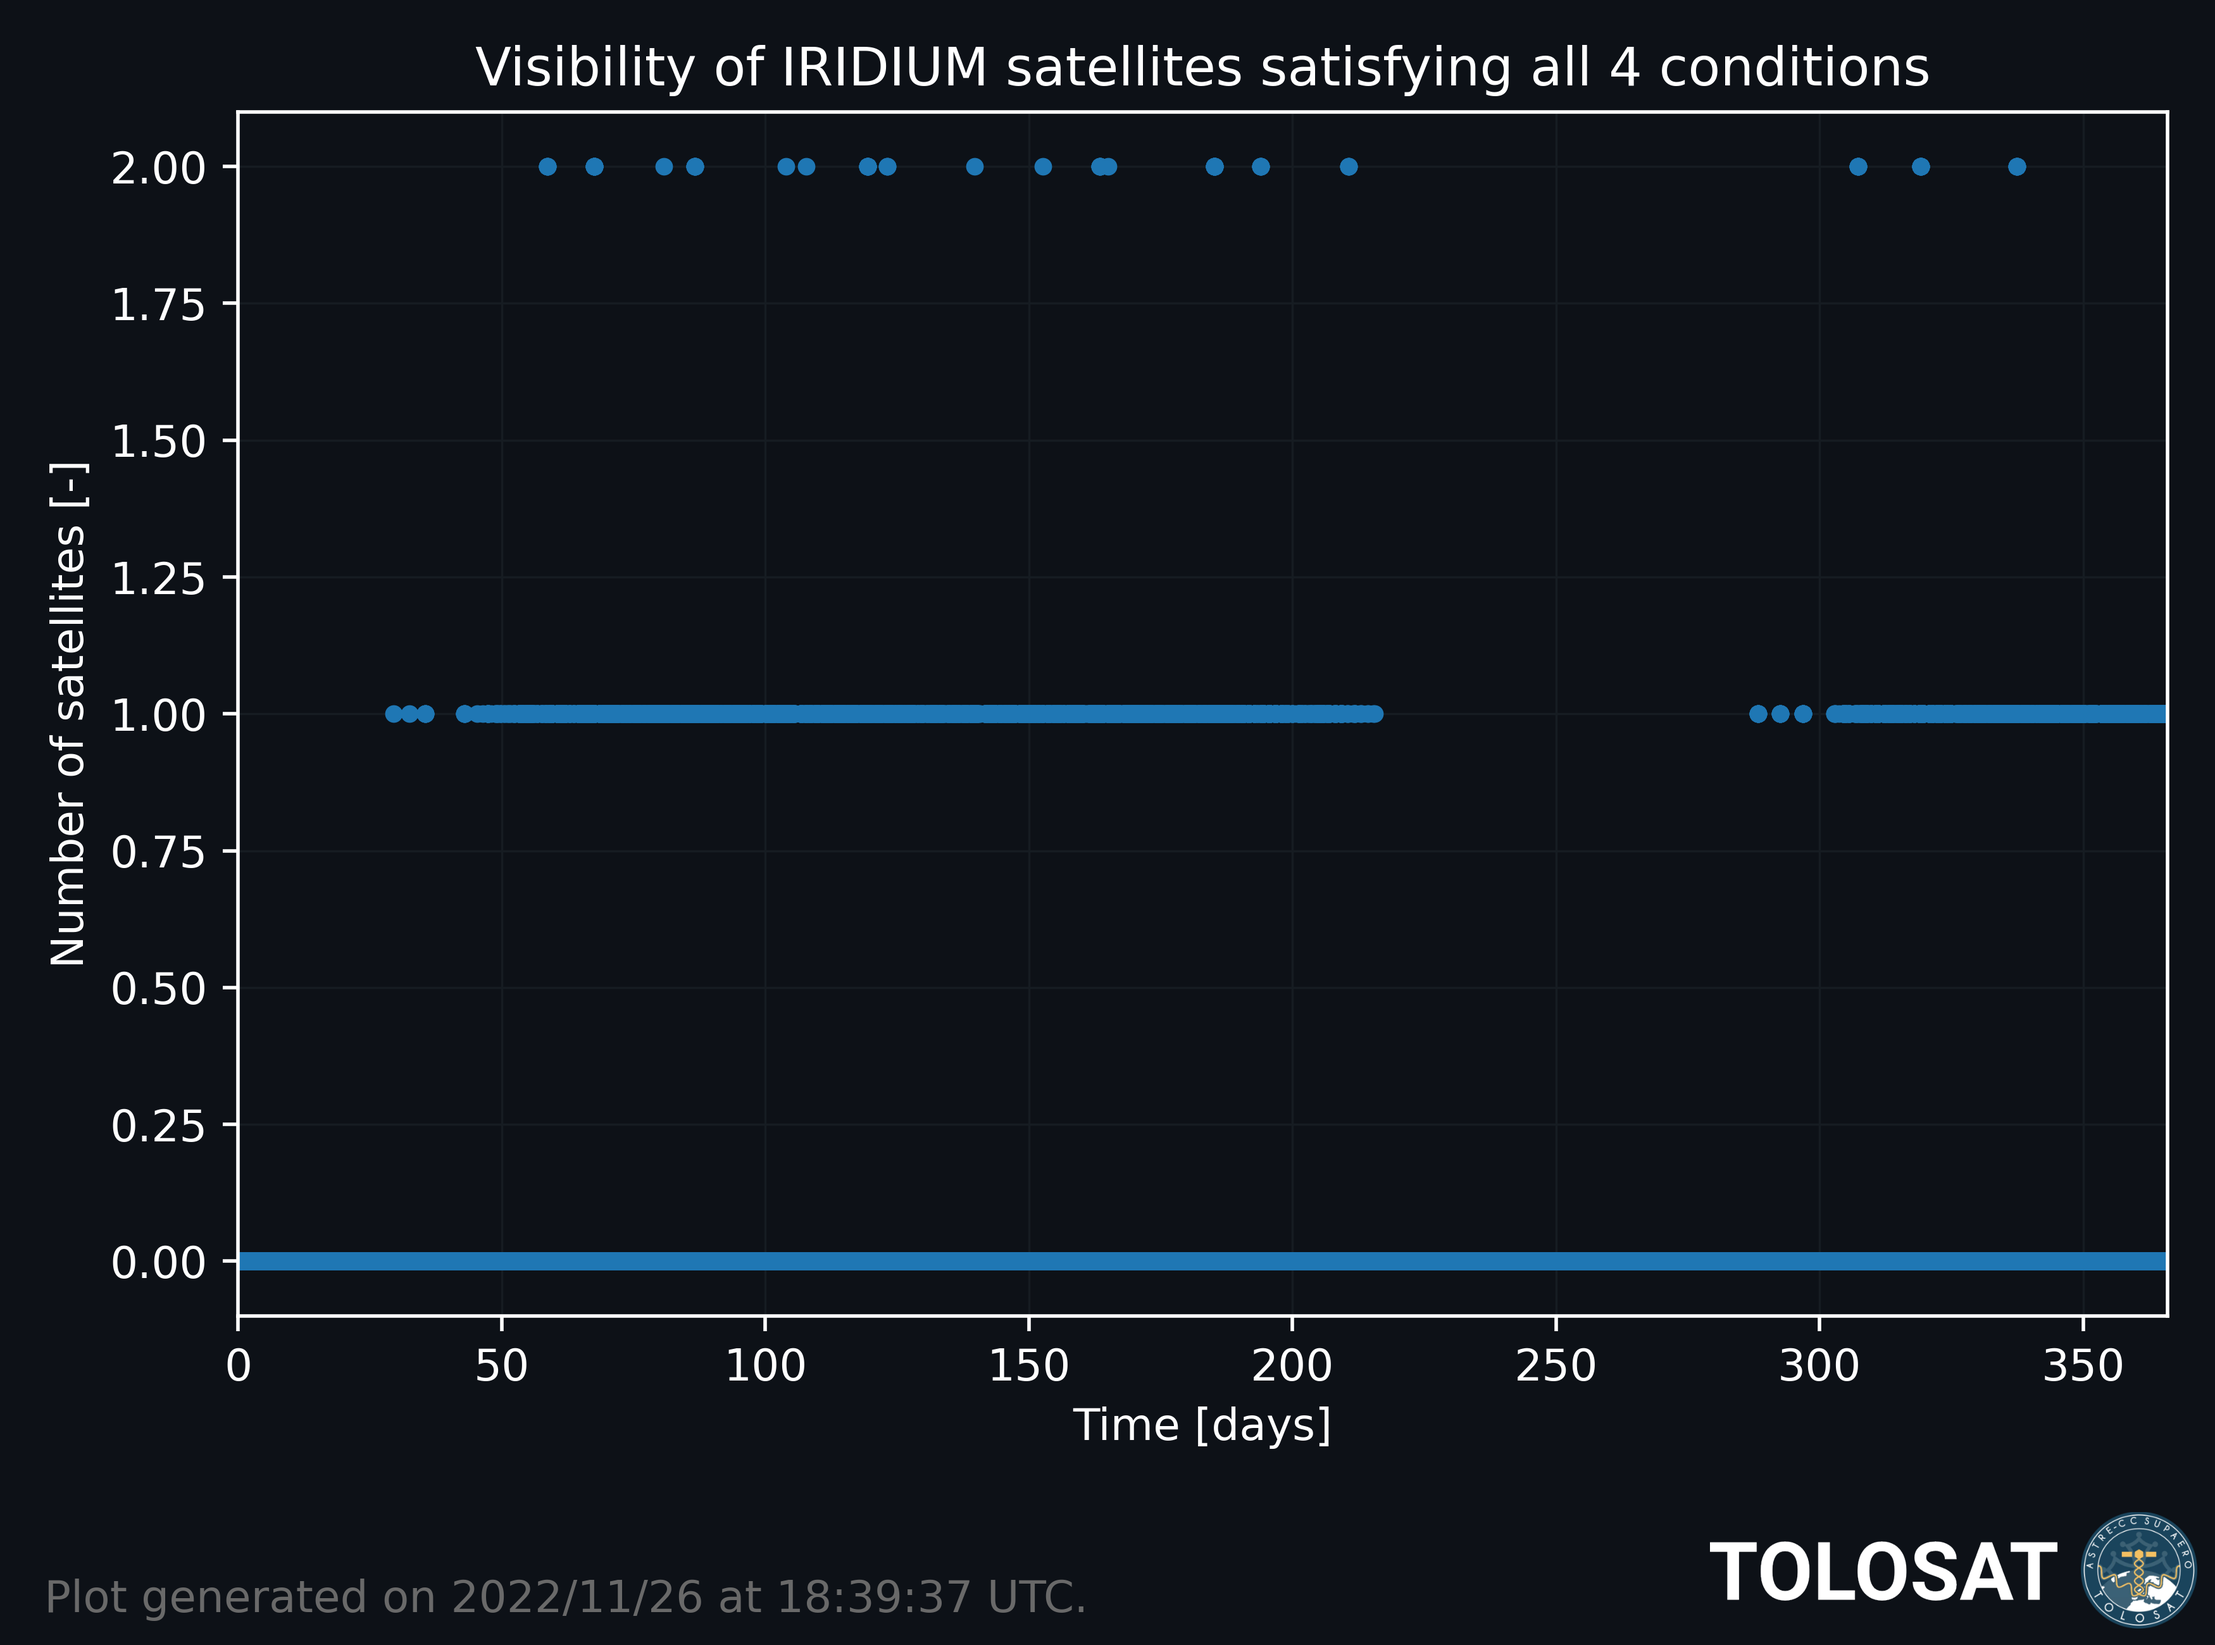
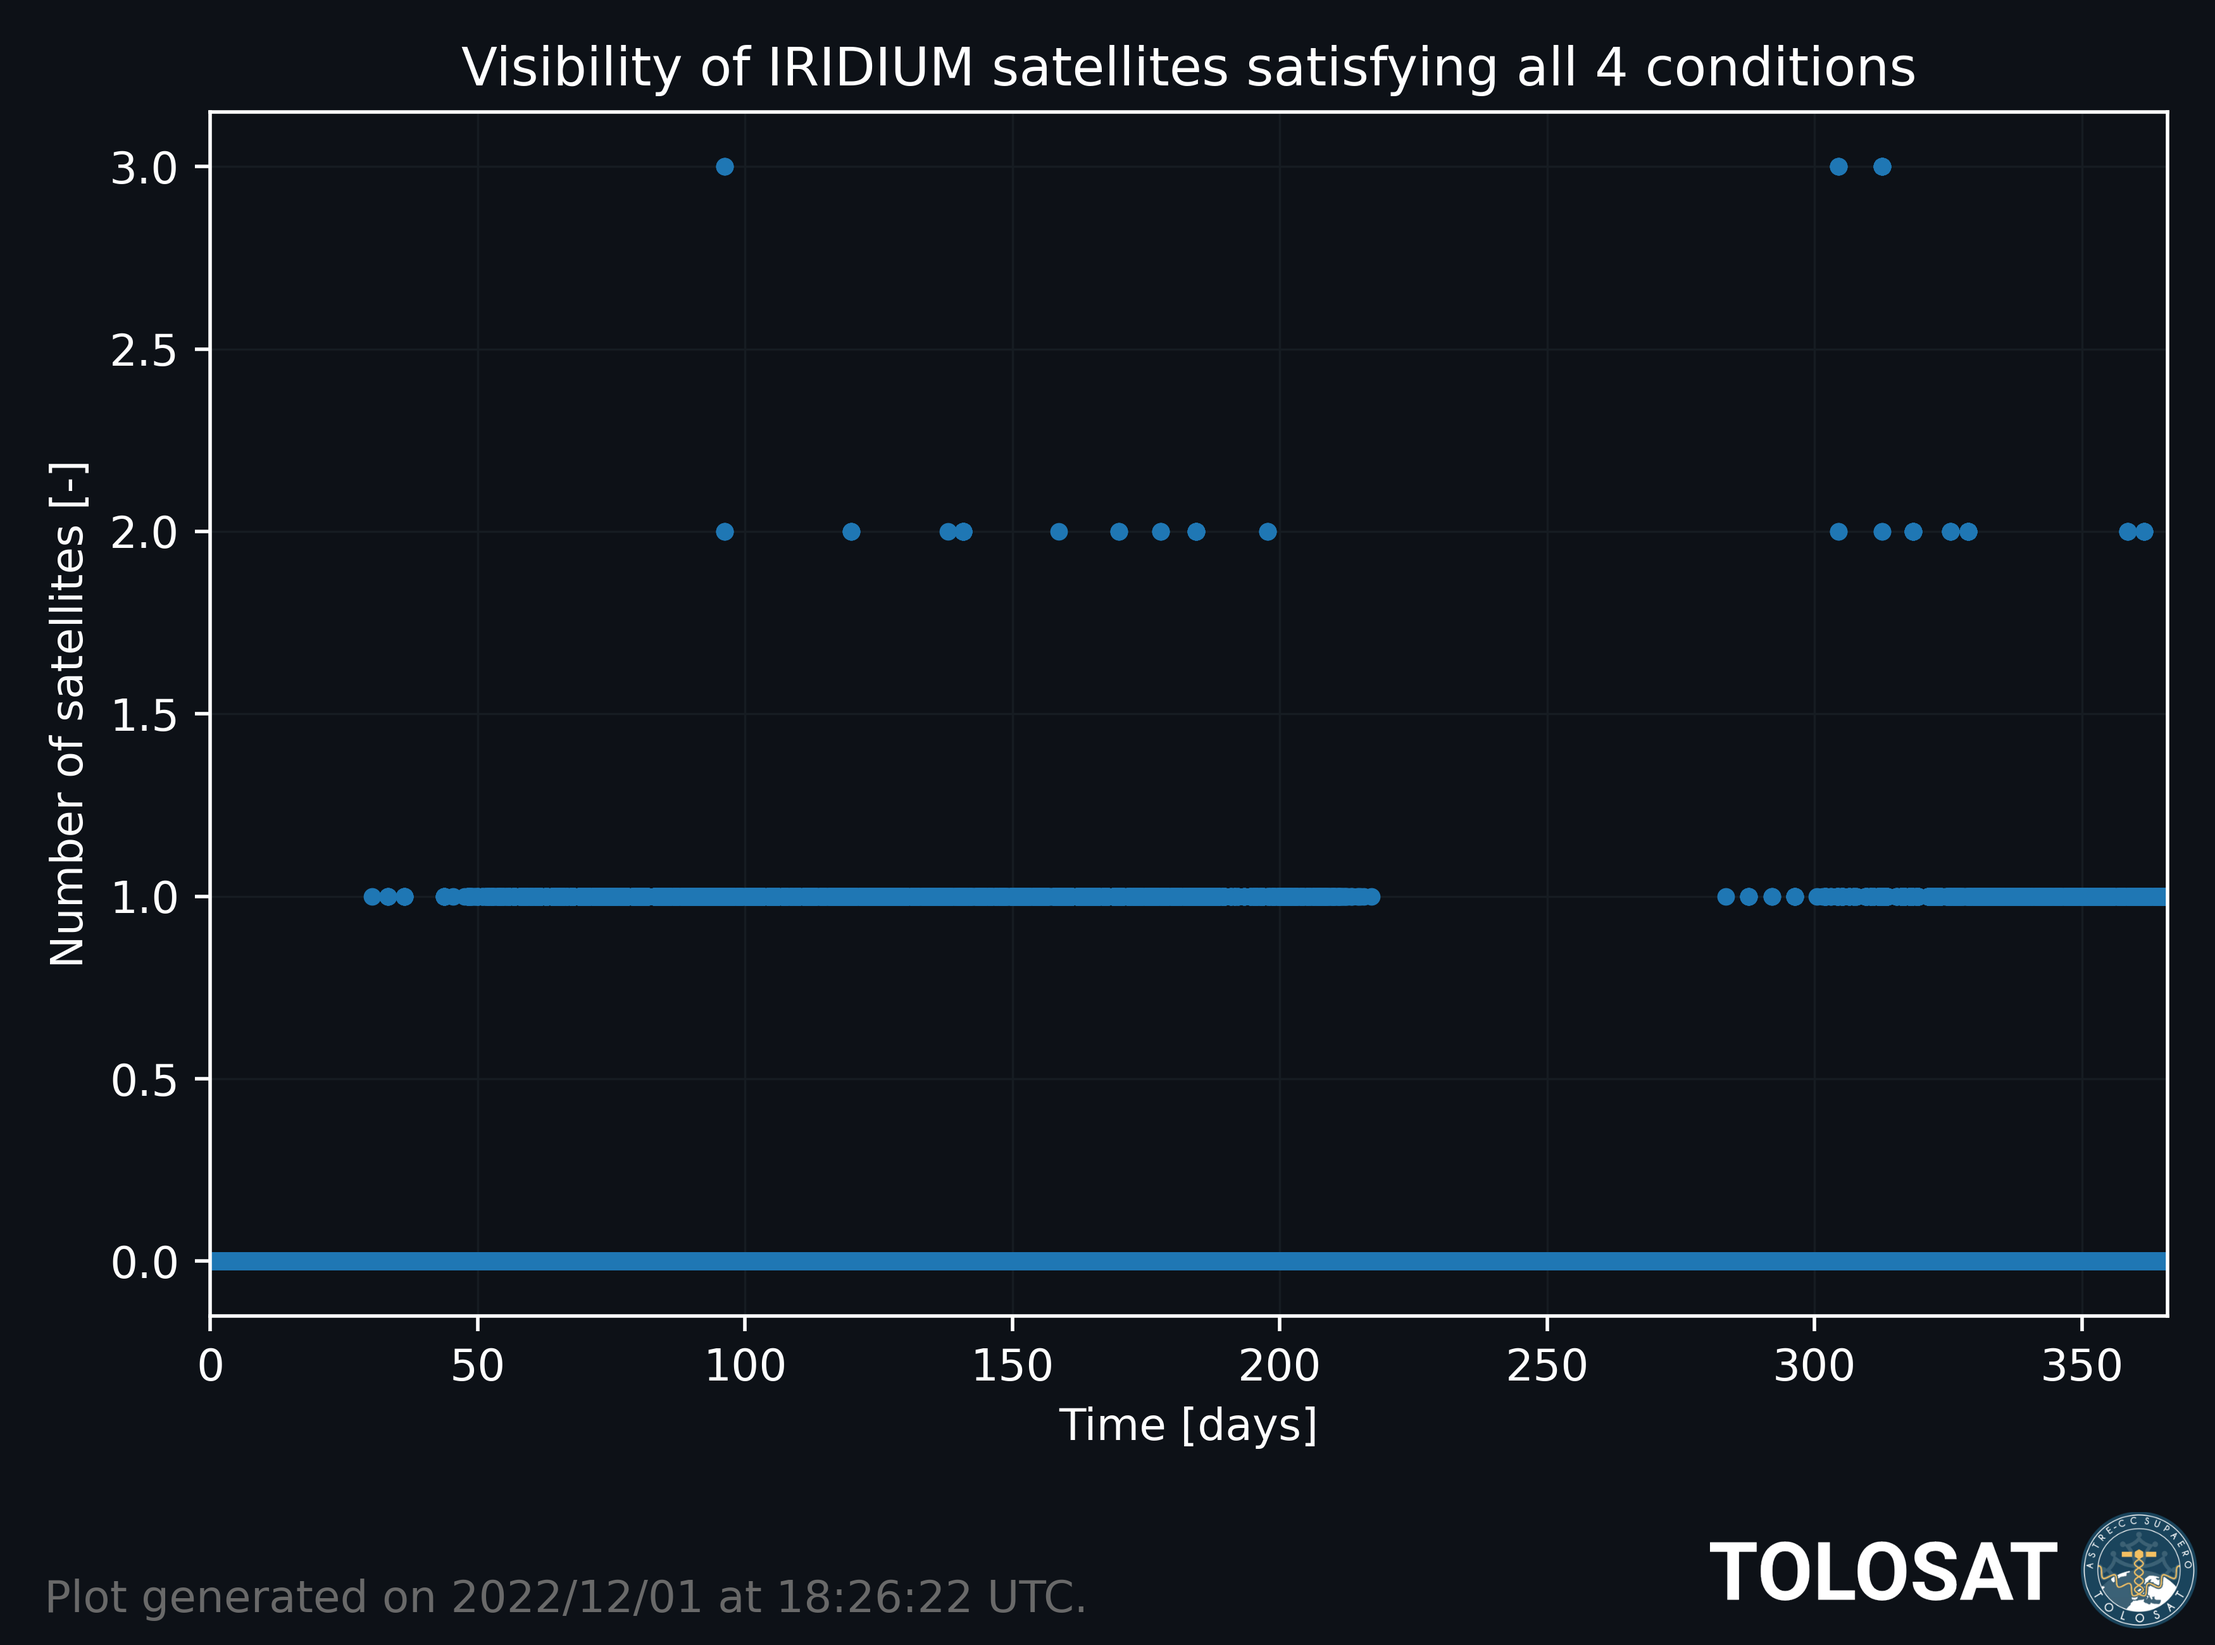
More iridium work

diff --git a/python/iridium/iridium_analysis.py b/python/iridium/iridium_analysis.py
@@ -47,3 +47,36 @@ axes[0].set_xlabel("Time [days]")
 axes[0].set_ylabel("Number of satellites [-]")
 axes[0].set_xlim(0, max(results["timedelta"].dt.total_seconds()) / 86400)
 pf.finish_dark_figure(fig, "IRIDIUM_all_ok.png", show=True)
+
+mask = (results["timedelta"] > timedelta(hours=2310, minutes=13)) & (
+        results["timedelta"] <= timedelta(hours=2310, minutes=27))
+fig, axes = pf.dark_figure()
+axes[0].plot(results["timedelta"].loc[mask].dt.total_seconds(),
+             results["IRIDIUM 113"].loc[mask, "doppler_shift"].to_list(), linestyle="none",
+             marker=".")
+axes[0].set_title("Doppler shift of IRIDIUM 113")
+axes[0].set_xlabel("Time [seconds]")
+axes[0].set_ylabel("Doppler shift [Hz]")
+axes[0].set_xlim(min(results["timedelta"].loc[mask].dt.total_seconds()),
+                 max(results["timedelta"].loc[mask].dt.total_seconds()))
+pf.finish_dark_figure(fig, "IRIDIUM_all_ok_1day_doppler_shift.png", show=True)
+
+
+mask = (results["timedelta"] > timedelta(hours=2325, minutes=10)) & (
+        results["timedelta"] <= timedelta(hours=2335,minutes=13))
+fig, axes = pf.dark_figure()
+axes[0].plot(results["timedelta"].loc[mask].dt.total_seconds(),
+             IRIDIUM_visibility.loc[mask, "sum_ok"].to_list(), linestyle="none",
+             marker=".")
+axes[0].set_title("Visibility of IRIDIUM satellites satisfying all 4 conditions")
+axes[0].set_xlabel("Time [seconds]")
+axes[0].set_ylabel("Number of satellites [-]")
+axes[0].set_xlim(min(results["timedelta"].loc[mask].dt.total_seconds()), max(results["timedelta"].loc[mask].dt.total_seconds()))
+pf.finish_dark_figure(fig, "IRIDIUM_all_ok_1day.png", show=True)
+
+for sat in results:
+    if "IRIDIUM" not in sat:
+        continue
+    if any(results[sat].loc[mask,"all_OK"]):
+        print(sat)
+        print(results["datetime"].loc[mask].loc[results[sat].loc[mask,"all_OK"]].to_list())

diff --git a/python/iridium/iridium_synchronisation.py b/python/iridium/iridium_synchronisation.py
@@ -29,7 +29,7 @@ body_settings = environment_setup.get_default_body_settings(
     bodies_to_create, global_frame_origin, global_frame_orientation)
 acceleration_settings_iridium = dict(
     Earth=[
-        propagation_setup.acceleration.spherical_harmonic_gravity(10, 10)
+        propagation_setup.acceleration.spherical_harmonic_gravity(2, 0)
     ]
 )
 bodies_to_propagate = ["Iridium"]

diff --git a/python/iridium/iridium_propagation.py b/python/iridium/iridium_propagation.py
@@ -43,7 +43,7 @@ all_spacecraft_names = ["Tolosat"] + iridium_all_names
 
 acceleration_settings_iridium = dict(
     Earth=[
-        propagation_setup.acceleration.spherical_harmonic_gravity(10, 10)
+        propagation_setup.acceleration.spherical_harmonic_gravity(2, 0)
     ]
 )
 acceleration_settings_tolosat = dict(
